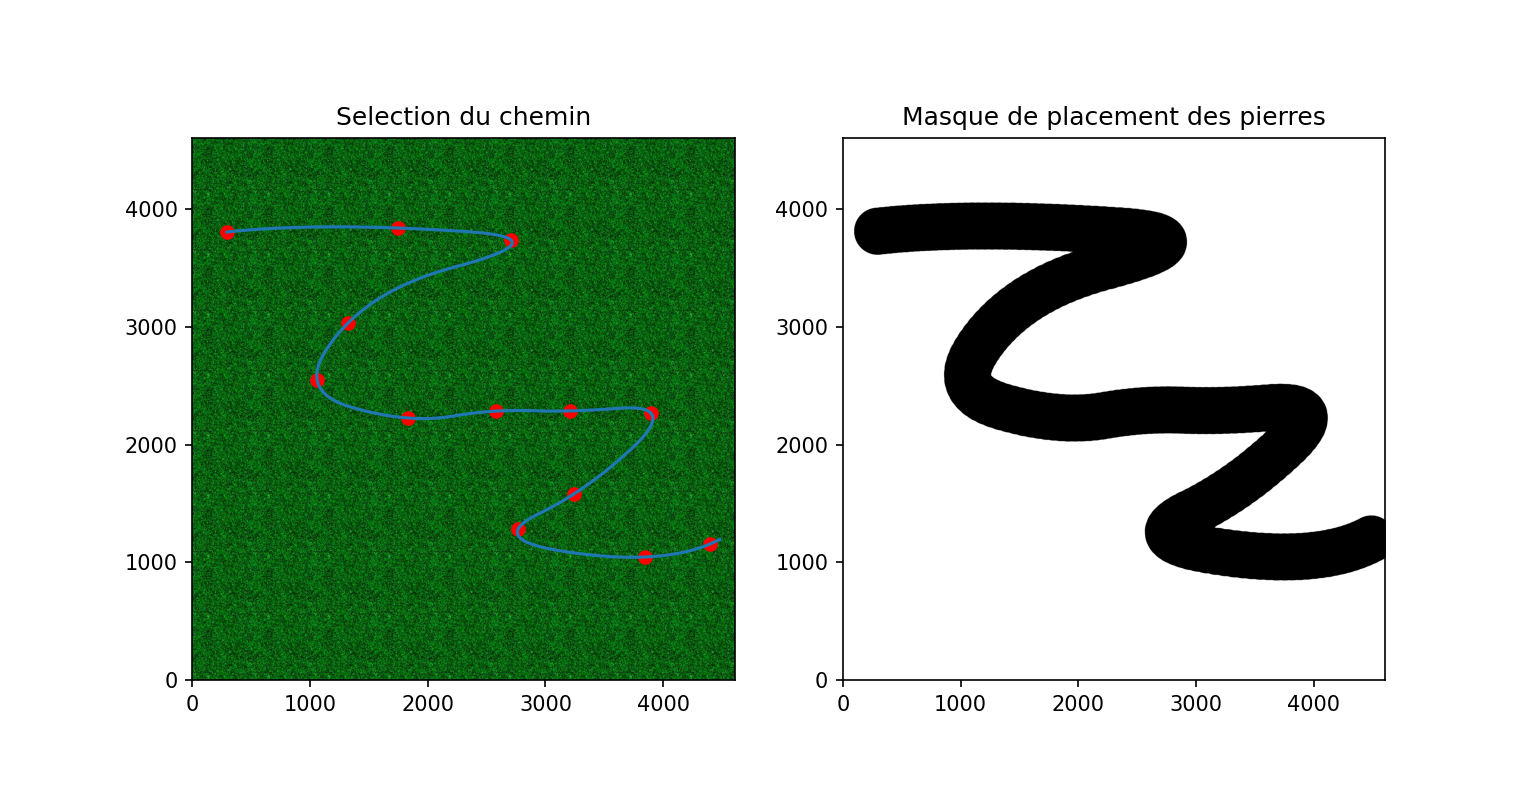
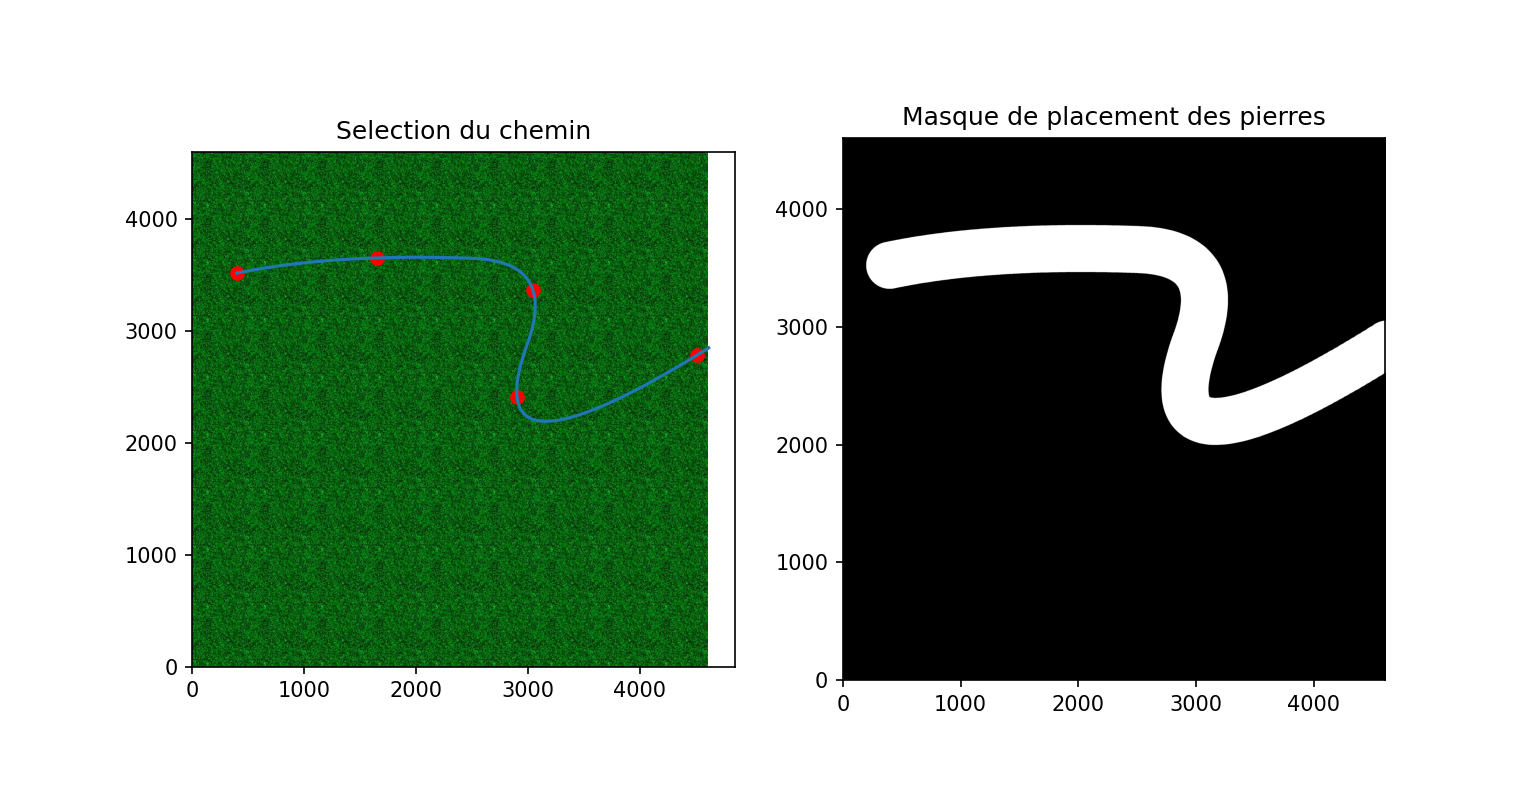
code propre

diff --git a/bin/plaquage/Interpolation.py b/bin/plaquage/Interpolation.py
@@ -99,26 +99,24 @@ def largeur_R_chemin(Taille_chemin,environnement,chemin):
         bsr_matrix: Masque contenant des 1 la où il y a le chemin et 0 sinon
     """
     nbPoint = len(chemin[0])
-    aleatoire = round(Taille_chemin)
-    x=np.arange(-aleatoire,aleatoire+1,1)
+    x=np.arange(-Taille_chemin,Taille_chemin+1,1)
     X,Y = np.meshgrid(x,x)
     # Forme autour du points à appliquer
-    cercle = ~(X*X+Y*Y < aleatoire*aleatoire)
-    cercle = cercle.astype(int)
+    cercle = X*X+Y*Y < Taille_chemin*Taille_chemin
     #Limite
     [maskl,maskL,_] = environnement.shape
     
-    mask = np.ones((maskl,maskL))
+    mask = np.zeros((maskl,maskL))
     for i in range(nbPoint):
 
         yc = round(chemin[0][i])
         xc = round(chemin[1][i])
         
         # Verification limite
-        Chemin_lim = [slice(xc-aleatoire,xc+aleatoire+1,None),slice(yc-aleatoire,yc+aleatoire+1,None)]
-        Cercle_index = [slice(0,2*aleatoire+1),slice(0,2*aleatoire+1)]
+        Chemin_lim = [slice(xc-Taille_chemin,xc+Taille_chemin+1,None),slice(yc-Taille_chemin,yc+Taille_chemin+1,None)]
+        Cercle_index = [slice(0,2*Taille_chemin+1),slice(0,2*Taille_chemin+1)]
         Chemin_lim,Cercle_index = limite_changer(Chemin_lim,Cercle_index,maskl,maskL)
-        # Multiplication par le mask
-        mask[Chemin_lim]=mask[Chemin_lim]*cercle[Cercle_index]     
+        # Application du masque
+        mask[Chemin_lim][cercle[Cercle_index]] = 1   
     mask_bsr = sparse.bsr_matrix(mask)
     return mask_bsr

diff --git a/bin/placementPierre.py b/bin/placementPierre.py
@@ -65,7 +65,7 @@ ListeTaillePierre = np.load("arraySave/ListTaillePierre.npy" )
 Pierre_mask = np.load("arraySave/PierreMask.npy",allow_pickle=True)
 Pierre_sorted = np.load("arraySave/PierreSorted.npy",allow_pickle=True)
 
-mask_array = -mask.toarray()+1
+mask_array = mask.toarray()
 #res = ndimage.gaussian_filter(mask.toarray(),sigma =10,order=2)
 [maskl,maskL] = mask_array.shape
 
